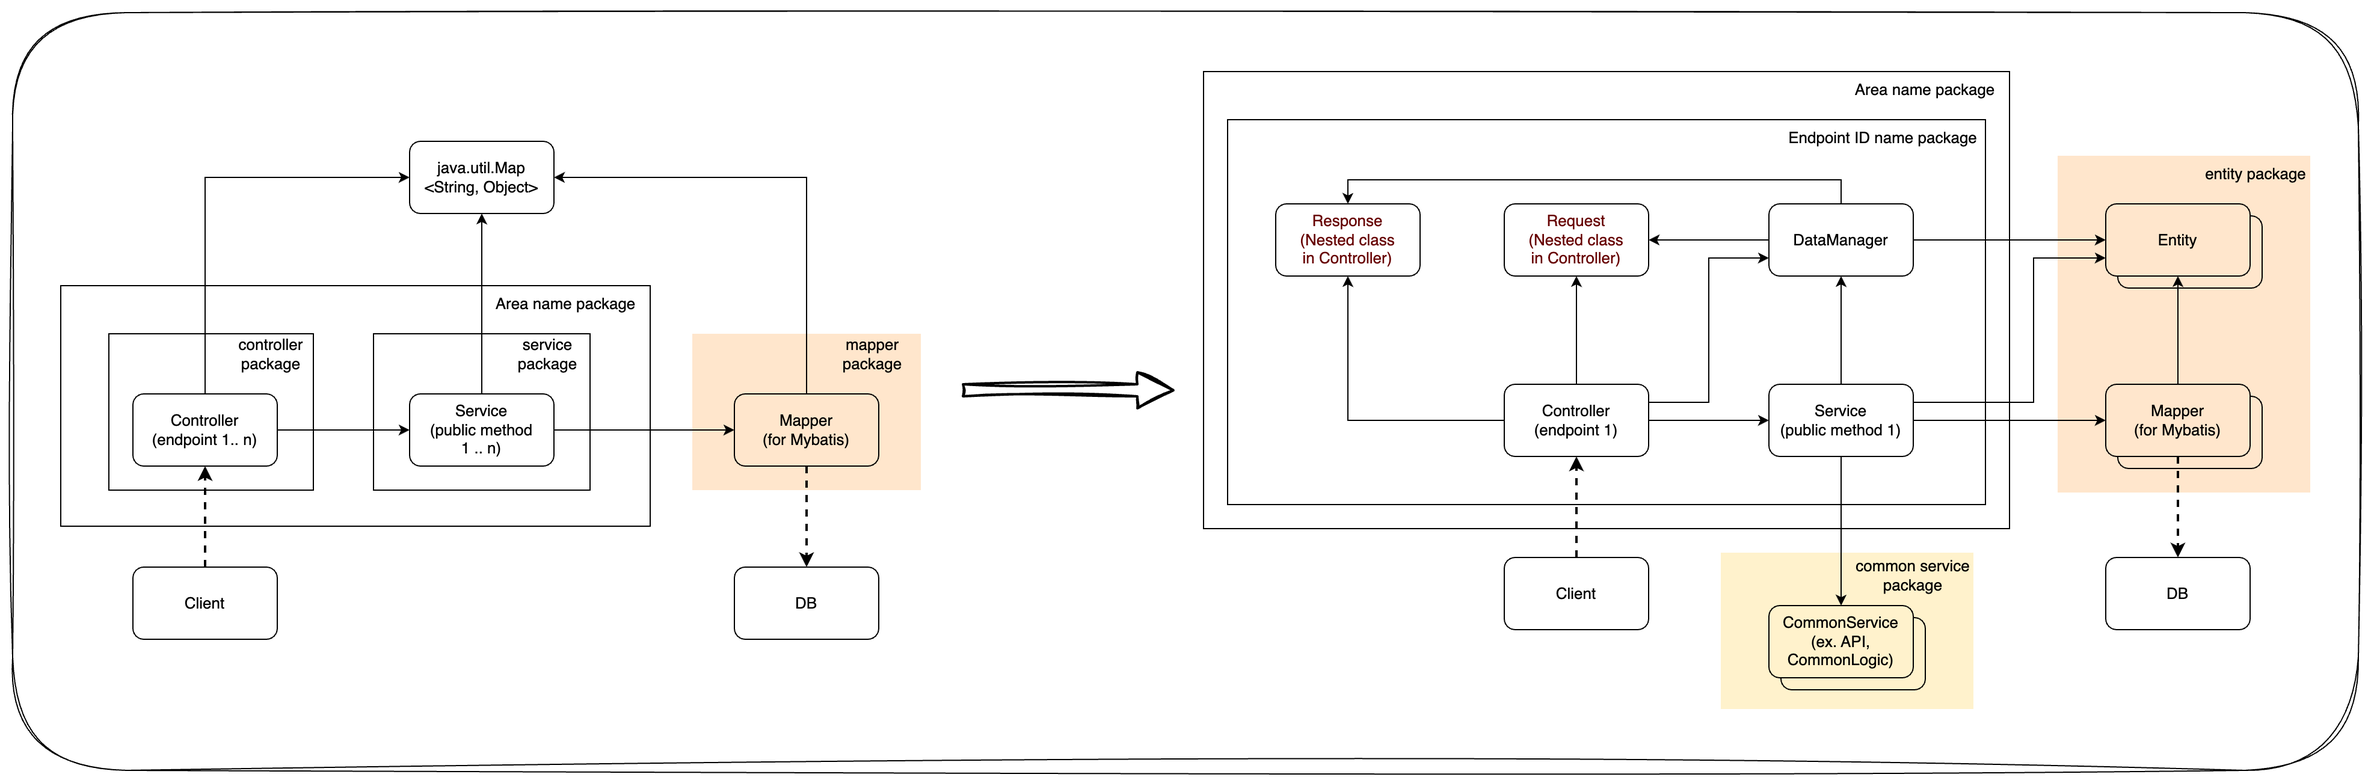
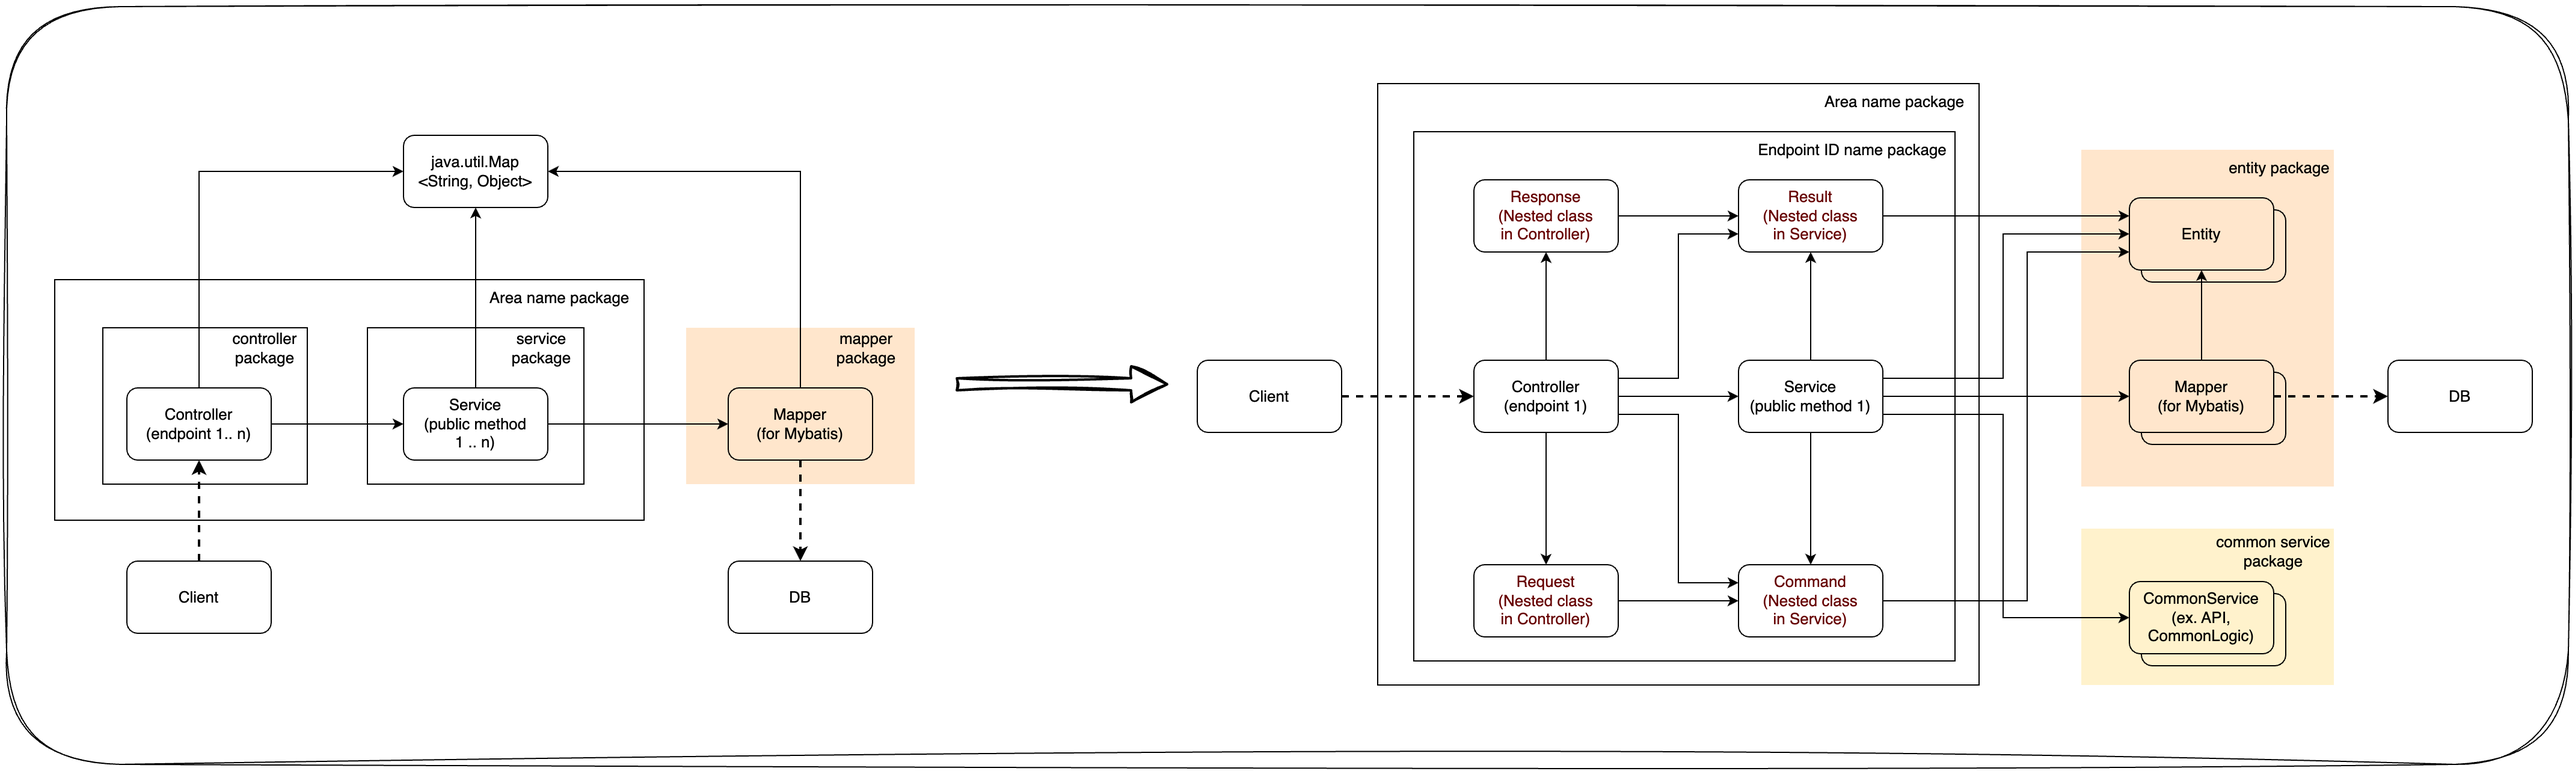
Spring MVC와 Mybatis 기반의 단순 아키텍처 수정
TO-BE v2 추가

diff --git a/content/post/simple-arch-with-mybatis/index.md b/content/post/simple-arch-with-mybatis/index.md
@@ -1,7 +1,7 @@
 ---
 title: "Spring MVC와 Mybatis 기반의 단순 아키텍처"
 date: 2023-08-20
-lastmod: 2023-08-20
+lastmod: 2023-08-21
 categories:
 - Backend
 tags:
@@ -13,7 +13,7 @@ hidden: false
 image: cover.png
 links:
   - title: 예제코드
-    website: https://github.com/seungyeop-lee/blog-example/tree/main/architecture-in-spring
+    website: https://github.com/seungyeop-lee/blog-example/tree/main/architecture-in-spring/modules
 ---
 
 ## 서론
@@ -25,7 +25,7 @@ links:
 
 이해를 돕기위해 간단한 생성, 조회 기능을 하는 예제를 같이 같이 작성해보았다.
 
-여기에서 사용하는 모든 예제 코드는 [Github Repository](https://github.com/seungyeop-lee/blog-example/tree/main/architecture-in-spring)에서 확인 가능하다.
+여기에서 사용하는 모든 예제 코드는 [Github Repository](https://github.com/seungyeop-lee/blog-example/tree/main/architecture-in-spring/modules)에서 확인 가능하다.
 
 ## AS-IS
 
@@ -115,11 +115,11 @@ public class BookService {
 무분별한 Map 사용은 [깨진 유리창 이론](https://ko.wikipedia.org/wiki/%EA%B9%A8%EC%A7%84_%EC%9C%A0%EB%A6%AC%EC%B0%BD_%EC%9D%B4%EB%A1%A0)의 깨진 유리창과 같은 역할을 한다. 
 구현을 빠르게 할 수 있는 만큼, 빠르게 레거시화 된다는 것이 내 생각이다.
 
-## TO-BE
+## TO-BE v1
 
 ### 구성도
 
-![TO-BE 의존관계 구성도](SimpleBackend-tobe.png)
+![TO-BE v1 의존관계 구성도](SimpleBackend-tobe-v1.png)
 
 고안해본 구조의 핵심은 public method에서의 Map사용을 지양하는 것과 endpoint 별로 package를 나누는 것이다.
 
@@ -170,12 +170,17 @@ public class EXAM001Controller {
         private String isbn;
         private LocalDate publishedDate;
 
-        public static Response from(Book book) {
+        public static Response of(
+                Long bookId,
+                String title,
+                String isbn,
+                LocalDate publishedDate
+        ) {
             Response response = new Response();
-            response.bookId = book.getBookId();
-            response.title = book.getTitle();
-            response.isbn = book.getIsbn();
-            response.publishedDate = book.getPublishedDate();
+            response.bookId = bookId;
+            response.title = title;
+            response.isbn = isbn;
+            response.publishedDate = publishedDate;
             response.markOk();
             return response;
         }
@@ -248,7 +253,12 @@ class DataManager {
     }
 
     public EXAM001Controller.Response buildResponse() {
-        return EXAM001Controller.Response.from(book);
+        return EXAM001Controller.Response.of(
+                book.getBookId(),
+                book.getTitle(),
+                book.getIsbn(),
+                book.getPublishedDate()
+        );
     }
 }
 ```
@@ -259,3 +269,149 @@ class DataManager {
 
 개인적으로는 Service계층을 위한 전용 타입이 있어야 하고, 의존성 방향에 맞춰서 의존하는 쪽 계층에서 타입 전환 및 생성 책임을 가져야한다고 생각하지만, 
 인터페이스와 DB설계가 먼저 다 완료되고, 마지막으로 서비스 계층의 설계 및 구현이 되는 조직의 특성상 이러한 형태가 좀 더 실리적이라고 생각한다.
+
+## TO-BE v2
+
+회사에서 v1을 도입하여 작업한 결과, DataManager가 가독성을 저하시키는 요인으로 작용 할 여지가 크게 보임에 따라 아키텍처를 수정하였다.
+
+### 구성도
+
+![TO-BE v2 의존관계 구성도](SimpleBackend-tobe-v2.png)
+
+DataManager를 제거하고, Service계층을 위한 전용 타입인 Command와 Result를 추가하였다.
+
+### 예제 코드
+
+```java
+@RestController
+@RequiredArgsConstructor
+public class EXAM001Controller {
+
+    private final EXAM001Service service;
+
+    @PostMapping("/createBook")
+    public Response createBook(@RequestBody Request request) {
+        request.validate();
+
+        EXAM001Service.Result result = service.createBook(request.toCommand());
+
+        return Response.from(result);
+    }
+
+    @Data
+    static class Request {
+        private String title;
+        private String isbn;
+        private LocalDate publishedDate;
+
+        public void validate() {
+            if (title == null || isbn == null || publishedDate == null) {
+                throw new RequiredValueException();
+            }
+        }
+
+        public EXAM001Service.Command toCommand() {
+            return EXAM001Service.Command.of(title, isbn, publishedDate);
+        }
+    }
+
+    @Getter
+    static class Response extends BaseApiResponse {
+        private Long bookId;
+        private String title;
+        private String isbn;
+        private LocalDate publishedDate;
+
+        public static Response from(EXAM001Service.Result result) {
+            Response response = new Response();
+            response.bookId = result.getBookId();
+            response.title = result.getTitle();
+            response.isbn = result.getIsbn();
+            response.publishedDate = result.getPublishedDate();
+            response.markOk();
+            return response;
+        }
+    }
+}
+```
+
+Request는 Command 객체를 생성하는 책임이 추가되었고, Response는 Result로 부터 스스로를 생성 할 책임이 추가되었다. 
+
+```java
+@Service
+@Transactional
+@RequiredArgsConstructor
+class EXAM001Service {
+
+    private final BookMapper bookMapper;
+
+    public Result createBook(Command command) {
+        checkIsbnDuplication(command);
+
+        Book book = command.bookForInsert();
+        bookMapper.insert(book);
+
+        return Result.from(book);
+    }
+
+    private void checkIsbnDuplication(Command command) {
+        BookExample example = new BookExample();
+        example.createCriteria().andIsbnEqualTo(command.getIsbn());
+
+        List<Book> books = bookMapper.selectByExample(example);
+        if (!books.isEmpty()) {
+            throw new Exceptions.ISBNDuplicationException();
+        }
+    }
+
+    @Getter
+    static class Command {
+        private String title;
+        private String isbn;
+        private LocalDate publishedDate;
+
+        public static Command of(
+                String title,
+                String isbn,
+                LocalDate publishedDate
+        ) {
+            Command command = new Command();
+            command.title = title;
+            command.isbn = isbn;
+            command.publishedDate = publishedDate;
+            return command;
+        }
+
+        public Book bookForInsert() {
+            Book book = new Book();
+            book.setTitle(title);
+            book.setIsbn(isbn);
+            book.setPublishedDate(publishedDate);
+            return book;
+        }
+    }
+
+    @Getter
+    static class Result {
+        private Long bookId;
+        private String title;
+        private String isbn;
+        private LocalDate publishedDate;
+
+        public static Result from(Book book) {
+            Result result = new Result();
+            result.bookId = book.getBookId();
+            result.title = book.getTitle();
+            result.isbn = book.getIsbn();
+            result.publishedDate = book.getPublishedDate();
+            return result;
+        }
+    }
+}
+```
+
+서비스 메서드의 파라미터는 Command, 반환 값은 Result로 변경되었다. 이로인해 서비스 메서드에 어떤 데이터가 필요하고, 실행 결과 어떤 데이터가 반환되는지 확인하기 용이해졌다.
+
+Command는 Mapper에서 사용 할 객체를 생성하는 책임이 추가되었고, Result는 Entity로부터 스스로를 생성 할 책임이 추가되었다.
+
+Controller의 Request와 Service의 Command, Controller의 Response와 Service의 Result가 중복으로 보일 수 있으나 내 생각에는 **우발적 중복**이라 생각한다. (해당 내용은 클린 아키텍처 "16장.독립성#중복" 부분을 참고)
